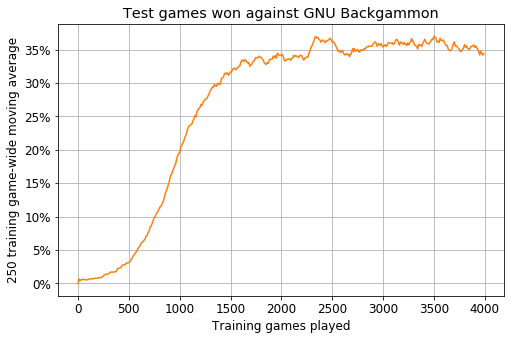
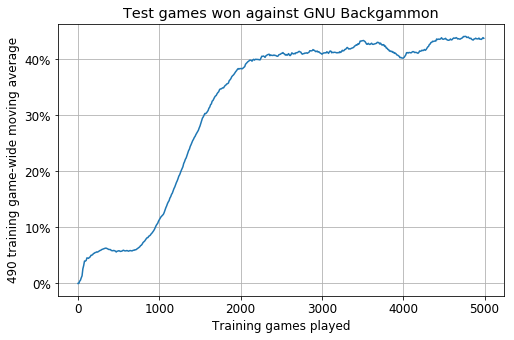
README benchmark and architecture experiments

diff --git a/README.md b/README.md
@@ -2,7 +2,11 @@
 
 An OCaml implementation of command-line backgammon with a bot trained using reinforcement learning.
 
-**Play against the bot [here](https://www.jacobh.co.uk/backgammon)!** The current version has a 42–43% win rate against GNU Backgammon using a single neural network to evaluate board positions with no look-ahead or other modifications.
+**Play against the bot [here](https://www.jacobh.co.uk/backgammon)!**
+
+The current version plays about as well as the top human players using a single neural network to evaluate board positions with no look-ahead or other modifications (achieving a 42–43% win rate against GNU Backgammon in single-game match play).
+
+## How it works
 
 Backgammon was the first major board game to be successfully attacked with techniques that resemble modern reinforcement learning, by Gerald Tesauro in the early 1990s. A first-hand account of the development of his program, TD-Gammon, can be found [here][2]. A good second-hand summary, including an introduction to the TD(*&lambda;*) algorithm on which the program is based, can be found in [1]. Details of some later (re-)implementations can be found [here][3] and [here][4].
 
@@ -19,7 +23,7 @@ One may view the 1-ply look-ahead version of this algorithm as being obtained fr
 This algorithm cannot be used in quite as general a setting as TD(*&lambda;*) itself: it requires us to have perfect knowledge of the environment, in order to consider every possible roll of the dice. But given that this knowledge is available in backgammon, the algorithm offers a number of advantages.
 - The averaging should smoothen the training process. Formally, it provides a stronger convergence property: with an idealised function approximator instead of the neural network (such as a lookup table), and assuming that every possible board position is reached infinitely many times, the algorithm converges to produce a completely accurate equity estimator *without needing to lower the learning rate* (whereas TD(*&lambda;*) only converges if the learning rate tends to zero).
 - It is straightforward to use a different amplification scheme in place of 1-ply look-ahead, such as Monte Carlo tree search or one of its variants. With such a modification the algorithm may be viewed as a simplified version of [AlphaZero](https://arxiv.org/abs/1712.01815).
-- The training of the neural network is decoupled from the process of generating training examples. This makes it possible to use the training examples more efficiently and to apply techniques such as [experience replay](https://arxiv.org/pdf/1312.5602v1.pdf) to further smoothen training. It also simplifies parallelisation of the algorithm.
+- The training of the neural network is decoupled from the process of generating training examples. This makes it possible to use the training examples more efficiently and to apply techniques such as [experience replay](https://arxiv.org/pdf/1312.5602.pdf) to further smoothen training. It also simplifies parallelisation of the algorithm.
 
 The implementation uses [tensorflow-ocaml](https://github.com/LaurentMazare/tensorflow-ocaml).
 
@@ -31,7 +35,7 @@ Tesauro [remarks][2] that with random play, backgammon games often last several 
 
 Since it is possible to change the amplified equity estimator in our algorithm, we therefore tried using a handcrafted bot as the amplified equity estimator, at least during the initial stages of training. Our handcrafted bot uses 1-ply look-ahead, but instead of using the neural network, it uses the ratio of the players' [pip counts](https://en.wikipedia.org/wiki/Backgammon) as a heuristic evaluation function. This ratio is a very poor estimate of the probability of winning, but with look-ahead it produces a bot that is able to implement simple strategies such as capturing and playing safe, preventing the game from lasting a very long time. We refer to this bot as the "pip count ratio bot".
 
-We compared three variants of the algorithm for 2,000 training games: using self-play (with 1-ply look-ahead), using only the pip count ratio bot, and using a hybrid method in which the pip count ratio bot was used for the first 500 training games before switching to self-play. This experiment used a very similar neural network architecture to Tesauro, with a single fully-connected hidden layer of 40 units and sigmoid activation. Only our board encoding is slightly different: in the encoding of the number *n* of a player's counters on a particular point, we replace the condition *n* = 3 by the condition *n* ≥ 3, in an attempt to take advantage of the fact that this indicates that the player will still have a made point after removing a counter; the unit specifying the number of counters on the bar is split in two, one specifying whether any counters are on the bar; and the unit indicating whose turn it is is removed, thereby removing a symmetry of the original representation. For training, we use the [Adam](https://arxiv.org/pdf/1412.6980.pdf) optimisation algorithm, and train on 500 minibatches of size 128 after every 10 games, using a [replay memory](https://arxiv.org/pdf/1312.5602v1.pdf) with a capacity of 50,000 board positions. For testing, after every 10 training games, 100 games were played between a bot that chooses moves using the neural network (with no look-ahead) and the pip count ratio bot.
+We compared three variants of the algorithm for 2,000 training games: using self-play (with 1-ply look-ahead), using only the pip count ratio bot, and using a hybrid method in which the pip count ratio bot was used for the first 500 training games before switching to self-play. This experiment used a very similar neural network architecture to Tesauro, with a single fully-connected hidden layer of 40 units and sigmoid activation. Only our board encoding is slightly different: in the encoding of the number *n* of a player's counters on a particular point, we replace the condition *n* = 3 by the condition *n* ≥ 3, in an attempt to take advantage of the fact that this indicates that the player will still have a made point after removing a counter; the unit specifying the number of counters on the bar is split in two, one specifying whether any counters are on the bar; and the unit indicating whose turn it is is removed, thereby removing a symmetry of the original representation. For training, we use the [Adam](https://arxiv.org/pdf/1412.6980.pdf) optimisation algorithm, and train on 500 minibatches of size 128 after every 10 games, using a [replay memory](https://arxiv.org/pdf/1312.5602.pdf) with a capacity of 50,000 board positions. For testing, after every 10 training games, 100 games were played between a bot that chooses moves using the neural network (with no look-ahead) and the pip count ratio bot.
 
 Here are the results, with moving averages displayed in order to cancel out some of the noise.
 
@@ -68,40 +72,19 @@ As expected, training using the pip count ratio bot very quickly produces someth
 
 Despite those remarks, the graph does not show the length of the early training games and the time saved as a result. Therefore the best approach may be to use the pip count ratio bot for a very small number of initial training games (a single game, say), to put the bot on the right track, before switching to self-play. Since the benefit appears to be modest, in our remaining experiments we choose to forgo the use of the pip count ratio bot entirely for the sake of simplicity. Nonetheless, the general idea could be useful in other reinforcement learning settings.
 
-### Benchmarking against GNU Backgammon
+### Increasing the size of the neural network
 
-We tested the self-play training method described in the previous section by pitting a bot that chooses moves using the neural network (with no look-ahead) against [GNU Backgammon](http://www.gnubg.org/), a strong open-source program. We used the same neural network architecture, with a single fully-connected hidden layer of 40 units and sigmoid activation, and the same board representation. 100 test games were played after every 10 training games.
+We studied the effect of increasing the size of the neural network on performance. As part of this we introduced an expanded board representation, with additional nodes specifying whether the number of counters on a point is at greater than or equal to 4, 5 and 6, and further additional nodes representing the number of counters on the bar and that have been borne off, for a total of 326 rather than 198 nodes.
+
+We tested three different neural network architectures:
+- using 1 hidden layer of size 40, sigmoid activation, and the same board representation as before;
+- using 2 hidden layers of size 80, sigmoid activation, and the expanded board representation;
+- and using 5 hidden layers of size 400, relu activation, and the expanded board representation.
+
+100 test games were played after every 10 training games between a bot that chooses moves using the neural network and a bot that chooses moves using a fully-trained neural network with the first architecture (both with no look-ahead).
 
 Here are the results, again with moving averages displayed.
 
-![
-import numpy as np
-import pandas as pd
-import matplotlib.pyplot as plt
-from matplotlib.ticker import FuncFormatter
-def faithful_rolling_mean(series, max_odd_window=25):
-    result = series.map(lambda _: np.nan)
-    for window in range(max_odd_window, -1, -2):
-        result = np.where(np.isnan(result), series.rolling(window, center=True).mean(), result)
-    return result[:- (max_odd_window - 1) // 2]
-series = pd.Series(faithful_rolling_mean(pd.Series([0, 1, 1, 0, 0, 2, 0, 1, 0, 0, 2, 1, 0, 0, 0, 0, 2, 0, 0, 1, 1, 2, 1, 1, 1, 1, 0, 2, 0, 2, 1, 1, 2, 1, 0, 2, 3, 4, 4, 1, 2, 2, 1, 3, 4, 2, 1, 2, 1, 2, 5, 8, 2, 2, 3, 8, 4, 3, 0, 5, 5, 3, 5, 7, 8, 7, 10, 6, 9, 9, 7, 10, 8, 5, 11, 10, 9, 8, 7, 13, 11, 14, 11, 13, 9, 15, 13, 16, 12, 18, 12, 17, 14, 17, 11, 17, 18, 22, 21, 21, 20, 23, 21, 26, 15, 25, 22, 23, 19, 28, 27, 22, 19, 33, 23, 22, 24, 27, 24, 24, 31, 27, 25, 23, 24, 32, 30, 34, 21, 34, 32, 27, 28, 29, 25, 39, 26, 26, 33, 28, 30, 32, 37, 30, 32, 29, 39, 19, 22, 33, 35, 23, 39, 41, 35, 35, 40, 31, 25, 30, 30, 30, 34, 33, 37, 34, 33, 31, 34, 35, 35, 39, 33, 31, 32, 30, 31, 36, 36, 30, 37, 26, 36, 28, 39, 32, 39, 39, 31, 38, 40, 29, 30, 30, 30, 25, 35, 30, 37, 30, 42, 35, 34, 38, 41, 32, 33, 26, 47, 35, 28, 40, 38, 34, 28, 27, 28, 35, 32, 30, 26, 29, 37, 38, 41, 37, 39, 32, 35, 39, 40, 32, 26, 36, 29, 35, 43, 40, 33, 41, 36, 42, 41, 42, 40, 39, 31, 32, 39, 35, 33, 32, 40, 34, 35, 35, 40, 24, 40, 32, 39, 36, 32, 36, 35, 29, 34, 32, 35, 44, 30, 35, 37, 29, 29, 31, 37, 36, 36, 26, 44, 46, 39, 28, 44, 30, 37, 37, 28, 33, 37, 34, 31, 40, 42, 36, 39, 36, 33, 28, 31, 37, 43, 41, 31, 40, 33, 46, 30, 38, 37, 28, 33, 33, 37, 30, 38, 42, 39, 40, 36, 41, 29, 38, 37, 37, 34, 35, 30, 43, 37, 33, 39, 37, 33, 32, 37, 26, 41, 39, 44, 29, 37, 28, 38, 33, 32, 46, 35, 38, 31, 46, 42, 38, 34, 31, 32, 37, 43, 38, 40, 34, 39, 38, 35, 30, 31, 33, 44, 30, 31, 36, 39, 26, 32, 32, 33, 37, 36, 36, 42, 45, 44, 27, 40, 34, 30, 36, 29, 36, 36, 37, 46, 34, 35, 22, 34, 37, 36, 33, 34, 37, 28, 42, 28, 37, 35, 32, 42, 31, 28, 36]) / 100))
-series.index = series.index * 10
-plt.rcParams.update({'font.size': 12})
-ax = series.plot(figsize=(8, 5), grid=True, title='Test games won against GNU Backgammon', color='C1')
-ax.set_xlabel('Training games played')
-ax.set_ylabel('250 training game-wide moving average')
-ax.yaxis.set_major_formatter(FuncFormatter(lambda y, _: '{:.0%}'.format(y)))
-ax.legend().remove()
-plt.show()
-](benchmark_experiment.png)
-
-A win rate of around 35% was achieved after around 2,000 training games. We expect this win rate to improve with larger neural network architectures, since Tesauro [saw][3] significant improvement moving from 40 to 80 hidden units.
-
-It may appear that our bot requires relatively few training games: Tesauro [notes][2] that TD-Gammon achieves an intermediate level of play after 200,000 training games. However, our algorithm evaluates around a few hundred times as many positions in its 1-ply look-ahead as TD-Gammon does, making the performance of the two algorithms somewhat comparable.
-
-### Coming soon...
-
-- An experiment between different neural network architectures using an expanded board representation: using 1 hidden layer of size 40, using 2 hidden layers of size 80, and using 5 hidden layers of size 400 and relu rather than sigmoid activation
 ![
 import numpy as np
 import pandas as pd
@@ -130,6 +113,43 @@ ax.set_ylabel('490 training game-wide moving average')
 ax.yaxis.set_major_formatter(FuncFormatter(lambda y, _: '{:.0%}'.format(y)))
 plt.show()
 ](architecture_experiment.png)
+
+The larger architectures clearly performed better, though the training process was slower and less smooth.
+
+### Benchmarking against GNU Backgammon
+
+We tested the largest architecture described in the previous section by pitting a bot that chooses moves using the neural network (with no look-ahead) against [GNU Backgammon](http://www.gnubg.org/), a strong open-source program that uses three neural networks and an endgame database. 100 test games were played after every 10 training games.
+
+Here are the results, again with moving averages displayed.
+
+![
+import numpy as np
+import pandas as pd
+import matplotlib.pyplot as plt
+from matplotlib.ticker import FuncFormatter
+def faithful_rolling_mean(series, max_odd_window=49):
+    result = series.map(lambda _: np.nan)
+    for window in range(max_odd_window, -1, -2):
+        result = np.where(np.isnan(result), series.rolling(window, center=True).mean(), result)
+    return result[:- (max_odd_window - 1) // 2]
+series = pd.Series(faithful_rolling_mean(pd.Series([0, 0, 0, 1, 1, 1, 1, 1, 4, 1, 5, 7, 12, 7, 7, 8, 12, 4, 4, 4, 6, 10, 9, 1, 7, 2, 6, 11, 3, 7, 5, 7, 12, 6, 5, 6, 7, 12, 6, 5, 8, 8, 8, 4, 8, 6, 10, 4, 5, 5, 4, 5, 3, 7, 4, 4, 3, 7, 3, 4, 3, 9, 3, 7, 7, 4, 3, 3, 7, 3, 7, 1, 8, 8, 5, 5, 6, 5, 8, 10, 10, 7, 5, 5, 9, 5, 8, 9, 8, 6, 7, 9, 9, 7, 11, 9, 9, 11, 10, 9, 11, 13, 11, 14, 17, 9, 14, 14, 14, 11, 10, 15, 11, 13, 15, 10, 13, 17, 15, 24, 16, 20, 17, 24, 17, 18, 18, 15, 18, 18, 23, 25, 26, 25, 25, 23, 20, 31, 18, 27, 20, 28, 28, 25, 29, 28, 26, 29, 31, 23, 33, 29, 30, 33, 38, 29, 35, 26, 32, 32, 36, 24, 37, 30, 28, 30, 29, 31, 34, 32, 33, 29, 36, 37, 35, 41, 36, 43, 29, 38, 40, 25, 31, 35, 34, 40, 41, 39, 34, 44, 34, 42, 40, 39, 33, 41, 39, 38, 41, 40, 29, 35, 38, 37, 41, 44, 31, 41, 34, 42, 45, 44, 40, 44, 39, 35, 40, 45, 43, 41, 40, 43, 33, 39, 41, 36, 41, 36, 44, 46, 46, 39, 43, 41, 44, 49, 40, 32, 37, 45, 47, 33, 46, 33, 40, 39, 37, 39, 40, 44, 51, 37, 40, 37, 36, 44, 46, 39, 44, 48, 31, 46, 41, 38, 35, 44, 41, 43, 37, 36, 46, 44, 42, 43, 42, 44, 41, 35, 43, 36, 44, 36, 49, 51, 34, 38, 41, 52, 38, 44, 38, 42, 43, 40, 40, 44, 43, 35, 42, 38, 32, 45, 37, 41, 43, 49, 35, 49, 51, 45, 46, 40, 40, 44, 39, 38, 34, 37, 41, 37, 47, 35, 37, 39, 38, 46, 41, 43, 38, 42, 46, 44, 42, 46, 47, 39, 38, 43, 41, 41, 41, 42, 37, 40, 47, 40, 45, 35, 46, 43, 40, 39, 51, 44, 57, 44, 43, 43, 47, 45, 45, 42, 47, 43, 48, 38, 44, 39, 48, 43, 45, 56, 38, 41, 47, 43, 38, 33, 31, 34, 44, 50, 38, 45, 44, 44, 34, 40, 43, 43, 44, 40, 49, 46, 37, 34, 43, 35, 36, 44, 39, 36, 47, 40, 43, 31, 42, 34, 47, 39, 44, 38, 45, 37, 41, 38, 29, 46, 38, 39, 44, 41, 36, 46, 43, 44, 44, 41, 54, 45, 46, 43, 44, 42, 45, 41, 43, 40, 37, 46, 39, 45, 43, 43, 48, 41, 37, 43, 40, 42, 43, 40, 46, 54, 43, 47, 50, 52, 52, 46, 47, 43, 40, 42, 38, 47, 41, 42, 38, 44, 45, 45, 36, 39, 46, 47, 45, 44, 41, 43, 43, 47, 50, 37, 43, 52, 46, 35, 46, 44, 40, 36, 46, 44, 41, 42, 46, 46, 51, 42, 42, 45, 45, 44, 50, 41, 48, 55, 37, 42, 41, 49, 43, 44, 42, 40, 42, 45, 34, 45, 43, 43, 48, 40]) / 100))
+series.index = series.index * 10
+plt.rcParams.update({'font.size': 12})
+ax = series.plot(figsize=(8, 5), grid=True, title='Test games won against GNU Backgammon')
+ax.set_xlabel('Training games played')
+ax.set_ylabel('490 training game-wide moving average')
+ax.yaxis.set_major_formatter(FuncFormatter(lambda y, _: '{:.0%}'.format(y)))
+ax.legend().remove()
+plt.show()
+](benchmark_experiment.png)
+
+A win rate of around 41% was achieved after around 2,500 training games. With each game lasting around 57 moves on average, this corresponds to an "error rating" (thousandths of expected games given up per move) of around 1.6 above that of GNU Backgammon, which is about as good as the top human players.
+
+It may appear that our bot requires relatively few training games: Tesauro [notes][2] that TD-Gammon achieves an intermediate level of play after 200,000 training games. However, our algorithm evaluates around a few hundred times as many positions in its 1-ply look-ahead as TD-Gammon does, making the performance of the two algorithms somewhat comparable.
+
+Allowing the bot to look ahead 1 move improves the win rate against GNU Backgammon by around 2%: the number of games won by the bot in a 10,000-game head-to-head against GNU Backgammon increased from 4,255 to 4,469 with this change.
+
+### Coming soon...
 
 - An experiment between 1-ply look-ahead and some form of Monte Carlo tree search guided by the output of the neural network
 
